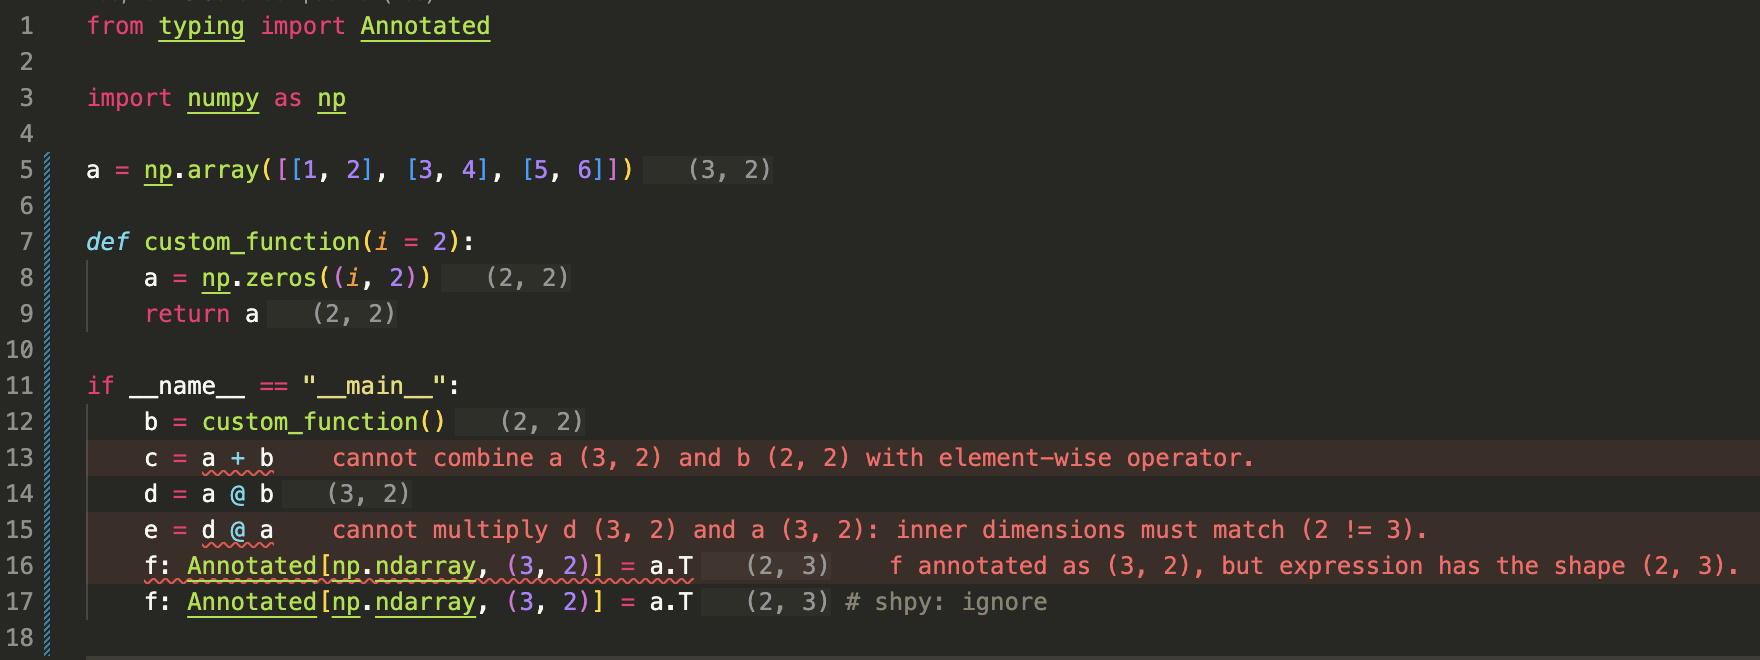
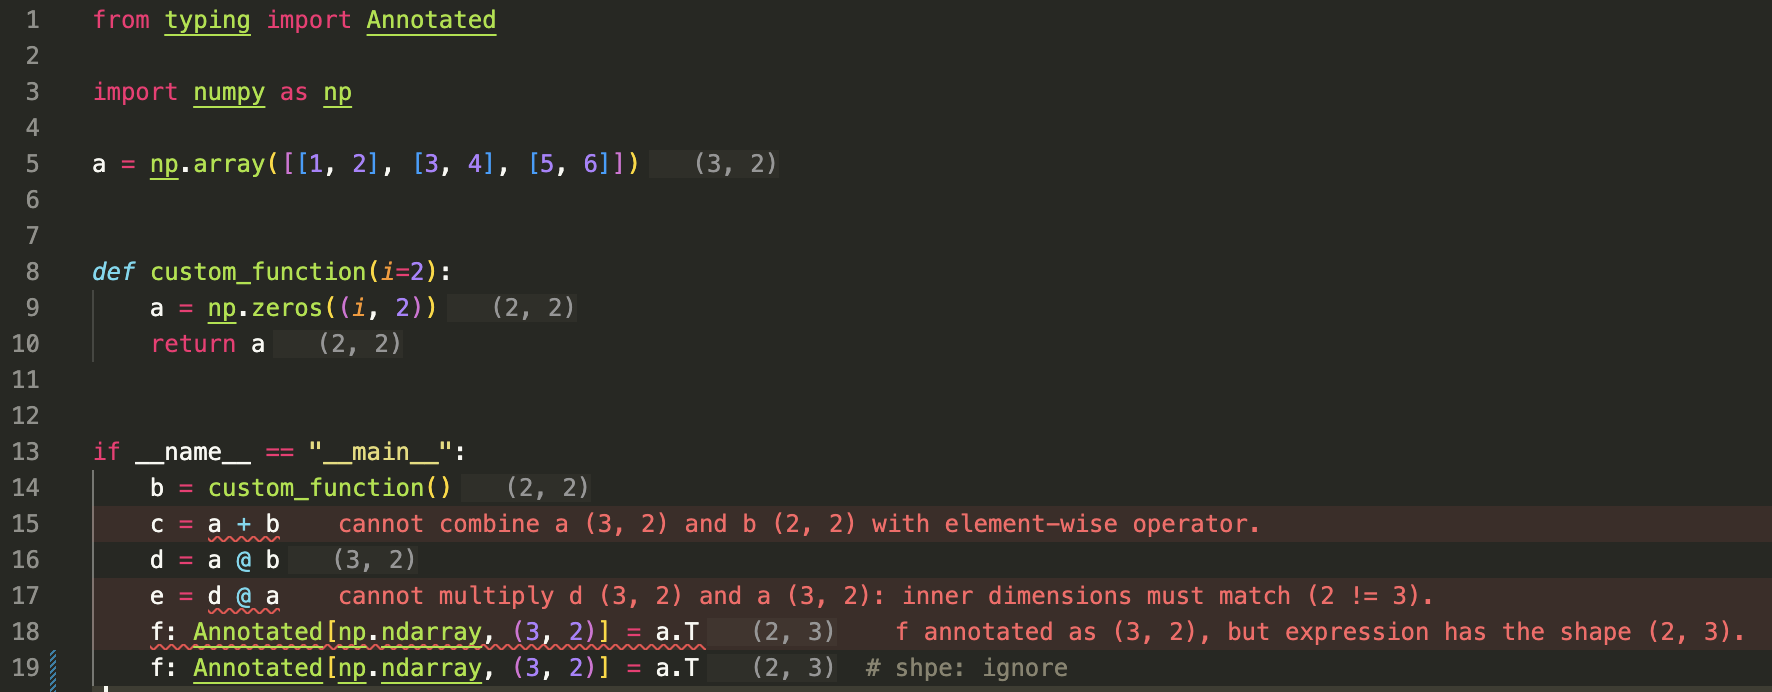
chore: renamed from shpy to shpe

diff --git a/shpe-vscode/extension.js b/shpe-vscode/extension.js
@@ -6,7 +6,7 @@ const fs = require('fs');
 let client;
 
 function getPythonPath(workspaceRoot) {
-    const userPath = vscode.workspace.getConfiguration('shpy').get('pythonPath');
+    const userPath = vscode.workspace.getConfiguration('shpe').get('pythonPath');
     if (userPath && userPath !== 'python' && userPath !== 'python3') {
         return userPath;
     }
@@ -31,7 +31,7 @@ function activate(context) {
 
     const serverOptions = {
         command: pythonPath, 
-        args: ['-m', 'shpy.server'],
+        args: ['-m', 'shpe.server'],
         options: {
             cwd: workspaceRoot,
             env: Object.assign({}, process.env, {
@@ -44,7 +44,7 @@ function activate(context) {
         documentSelector: [{ scheme: 'file', language: 'python' }],
     };
 
-    client = new LanguageClient('shpy', 'Shpy Language Server', serverOptions, clientOptions);
+    client = new LanguageClient('shpe', 'shpe Language Server', serverOptions, clientOptions);
     client.start();
 }
 

diff --git a/src/shpe/server.py b/src/shpe/server.py
@@ -23,9 +23,9 @@ from lsprotocol.types import (
 from pygls.lsp.server import LanguageServer
 from pygls.workspace import TextDocument
 
-from shpy.checker import Checker
+from shpe.checker import Checker
 
-server = LanguageServer("shpy-ls", "v0.1")
+server = LanguageServer("shpe-ls", "v0.1")
 
 
 def _is_dotfile(uri: str) -> bool:
@@ -57,7 +57,7 @@ def validate(ls: LanguageServer, document: TextDocument) -> None:
             ),
             message=str(e.msg),
             severity=DiagnosticSeverity.Error,
-            source="shpy",
+            source="shpe",
         )
         ls.text_document_publish_diagnostics(
             PublishDiagnosticsParams(uri=document.uri, diagnostics=[diag])
@@ -77,7 +77,7 @@ def validate(ls: LanguageServer, document: TextDocument) -> None:
 
             if line_idx < len(lines):
                 line_content = lines[line_idx]
-                if "# shpy: ignore" in line_content:
+                if "# shpe: ignore" in line_content:
                     continue
 
             col = max(0, entry["col"])
@@ -90,7 +90,7 @@ def validate(ls: LanguageServer, document: TextDocument) -> None:
                 ),
                 message=entry["message"],
                 severity=severity,
-                source="shpy",
+                source="shpe",
                 code=entry.get("code"),
             )
             diagnostics.append(diag)

diff --git a/src/shpe/cli.py b/src/shpe/cli.py
@@ -5,11 +5,11 @@ import sys
 from pathlib import Path
 from typing import Any
 
-from shpy.checker import Checker
-from shpy.environment import ShapeState
+from shpe.checker import Checker
+from shpe.environment import ShapeState
 
 try:
-    __version__ = importlib.metadata.version("shpy")
+    __version__ = importlib.metadata.version("shpe")
 except importlib.metadata.PackageNotFoundError:
     __version__ = "unknown"
 
@@ -116,7 +116,7 @@ def _process_file(
         line_idx = max(0, line - 1)
         if line_idx < len(lines):
             line_content = lines[line_idx]
-            if "# shpy: ignore" in line_content:
+            if "# shpe: ignore" in line_content:
                 continue
 
         code = warning["code"]
@@ -128,7 +128,7 @@ def _process_file(
         line_idx = max(0, line - 1)
         if line_idx < len(lines):
             line_content = lines[line_idx]
-            if "# shpy: ignore" in line_content:
+            if "# shpe: ignore" in line_content:
                 continue
 
         code = error["code"]

diff --git a/src/shpe/resolver.py b/src/shpe/resolver.py
@@ -2,10 +2,10 @@ import ast
 from collections.abc import Callable
 from typing import Any, Protocol
 
-from shpy.diagnostics import Diagnostics, ErrorCode
-from shpy.environment import Environment
-from shpy.extractor import Extractor, ShapeState
-from shpy.handlers import Handler
+from shpe.diagnostics import Diagnostics, ErrorCode
+from shpe.environment import Environment
+from shpe.extractor import Extractor, ShapeState
+from shpe.handlers import Handler
 
 
 class StatementWalker(Protocol):

diff --git a/src/shpe/checker.py b/src/shpe/checker.py
@@ -1,10 +1,10 @@
 import ast
 from typing import Any
 
-from shpy.diagnostics import Diagnostics, ErrorCode
-from shpy.environment import Environment, ShapeState
-from shpy.extractor import Extractor
-from shpy.resolver import Resolver
+from shpe.diagnostics import Diagnostics, ErrorCode
+from shpe.environment import Environment, ShapeState
+from shpe.extractor import Extractor
+from shpe.resolver import Resolver
 
 
 class Checker(ast.NodeVisitor):

diff --git a/src/shpe/handlers.py b/src/shpe/handlers.py
@@ -3,9 +3,9 @@ import math
 from collections.abc import Callable
 from typing import Any, Protocol
 
-from shpy.diagnostics import Diagnostics, ErrorCode
-from shpy.environment import ShapeState
-from shpy.extractor import Extractor
+from shpe.diagnostics import Diagnostics, ErrorCode
+from shpe.environment import ShapeState
+from shpe.extractor import Extractor
 
 
 class HandlerResolver(Protocol):

diff --git a/examples/demo.py b/examples/demo.py
@@ -89,7 +89,7 @@ inference_breaks = ones + working_inference
 inference_repaired: Annotated[np.ndarray, (3, 2)] = inference_breaks
 inference_repaired = inference_repaired
 
-# combined with # shpy: ignore, you can ignore false errors
+# combined with # shpe: ignore, you can ignore false errors
 # and replace them with the correct shape
 
 # main function will still be inferred:

diff --git a/src/shpe/extractor.py b/src/shpe/extractor.py
@@ -1,8 +1,8 @@
 import ast
 import math
 
-from shpy.diagnostics import Diagnostics, ErrorCode
-from shpy.environment import Environment, ShapeState
+from shpe.diagnostics import Diagnostics, ErrorCode
+from shpe.environment import Environment, ShapeState
 
 
 class Extractor:

diff --git a/examples/intro.py b/examples/intro.py
@@ -16,4 +16,4 @@ if __name__ == "__main__":
     d = a @ b
     e = d @ a
     f: Annotated[np.ndarray, (3, 2)] = a.T
-    f: Annotated[np.ndarray, (3, 2)] = a.T  # shpy: ignore
+    f: Annotated[np.ndarray, (3, 2)] = a.T  # shpe: ignore

diff --git a/tests/test_checker.py b/tests/test_checker.py
@@ -6,7 +6,7 @@ from typing import Annotated
 import numpy as np
 import pytest
 
-from shpy.checker import Checker
+from shpe.checker import Checker
 from tests.checker_cases import (
     ANNOTATION_CASES,
     CONTEXT_CASES,

diff --git a/src/shpe/__main__.py b/src/shpe/__main__.py
@@ -1,4 +1,4 @@
-from shpy.cli import main
+from shpe.cli import main
 
 if __name__ == "__main__":
     main()
